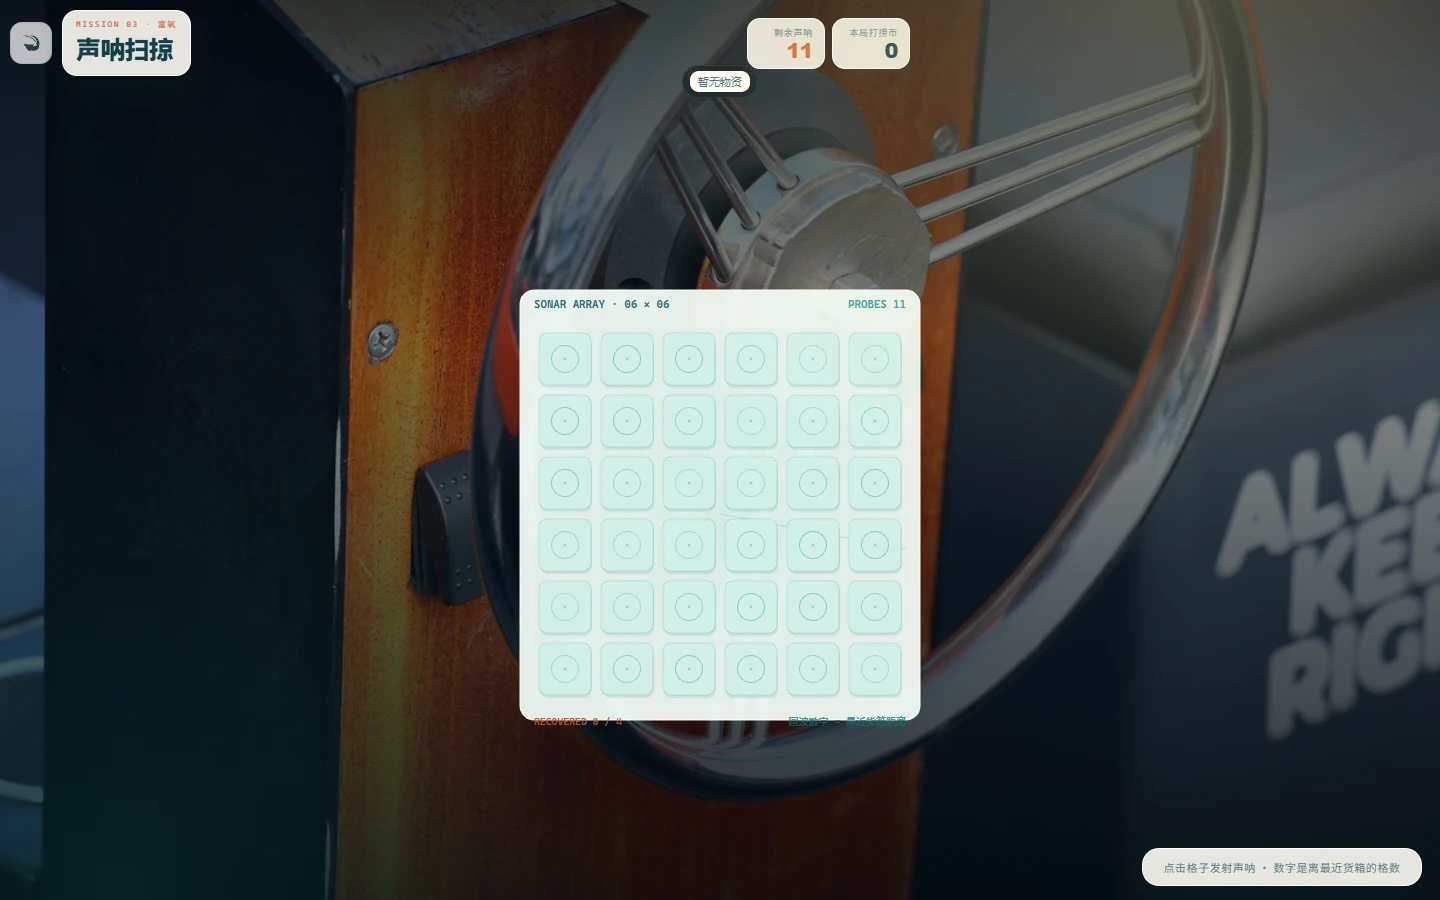
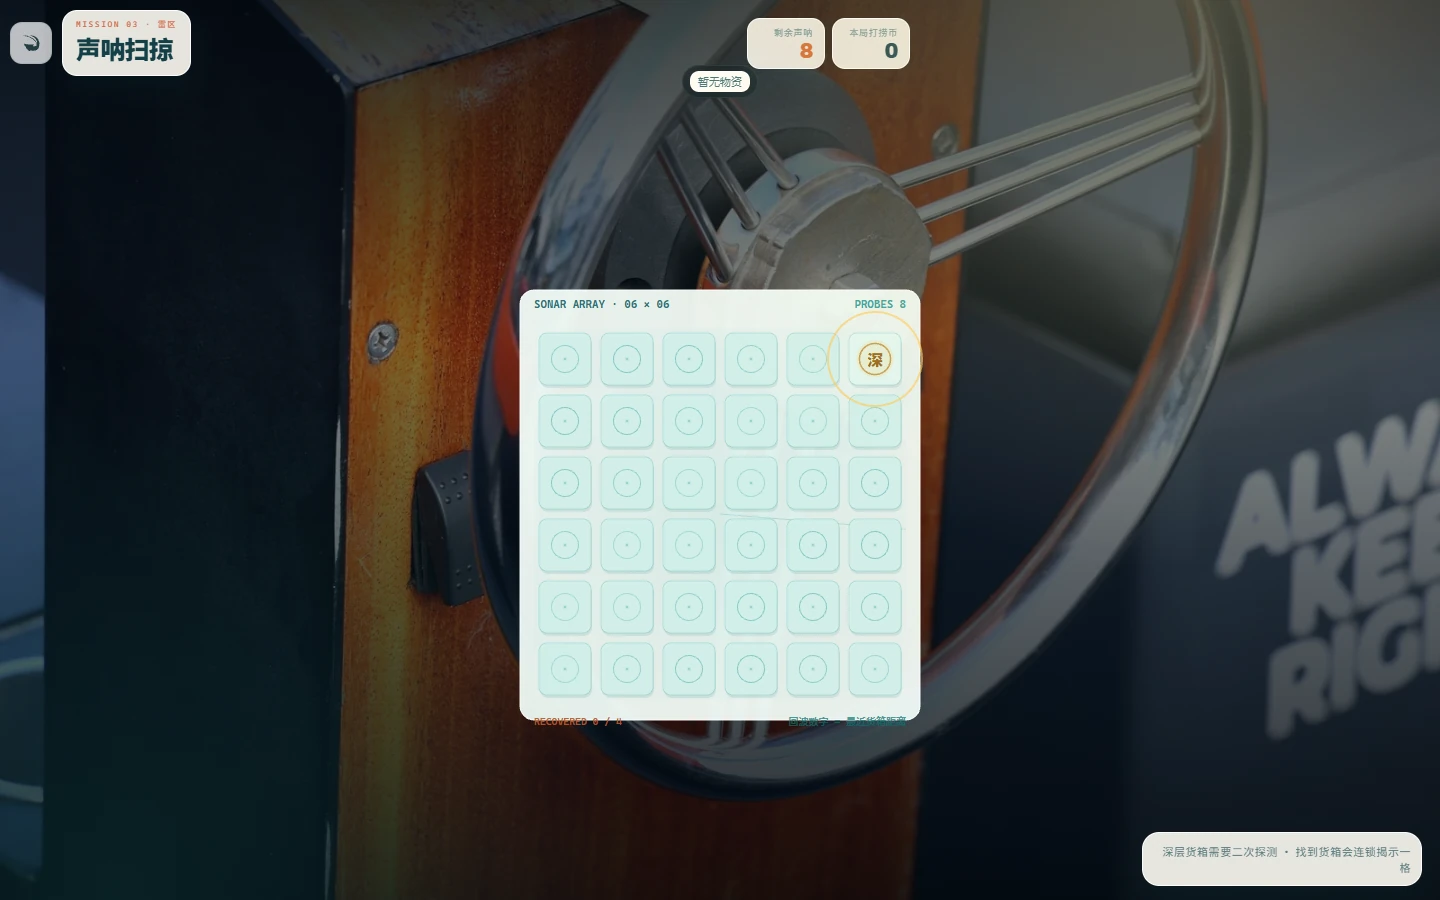
v4.3: 声呐深层货箱与连锁回波

Changed region(s): [[0.7812, 0.9022, 1.0, 0.9956], [0.5938, 0.3111, 0.625, 0.4667], [0.5312, 0.0311, 0.5625, 0.0622]]

diff --git a/js/sonar.js b/js/sonar.js
@@ -138,6 +138,11 @@
         cargoItem.collectibleName = cdef.name;
       }
     }
+    if (chance(0.55) && cargoKeys.length) {
+      var deepKey = cargoKeys[(Math.random() * cargoKeys.length) | 0];
+      this.cargo[deepKey].deep = true;
+      this.cargo[deepKey].hits = 0;
+    }
   };
 
   SonarGame.prototype.layout = function () {
@@ -213,14 +218,21 @@
   SonarGame.prototype.pointerDown = function (x, y) {
     if (this.phase !== 'playing' || this.done || this.ending > 0) return;
     var cell = this.cellAt(x, y);
-    if (!cell || this.revealed[cell.r][cell.c]) return;
-    this.probesLeft -= 1;
-    this.revealed[cell.r][cell.c] = true;
+    if (!cell) return;
     var key = cell.r + ':' + cell.c;
     var item = this.cargo[key];
+    var canDeepRetry = !!(item && item.deep && !item.found && item.hits > 0);
+    if (this.revealed[cell.r][cell.c] && !canDeepRetry) return;
+    this.probesLeft -= 1;
+    this.revealed[cell.r][cell.c] = true;
     var cx = this.boardX + cell.c * this.cell + this.cell / 2;
     var cy = this.boardY + cell.r * this.cell + this.cell / 2;
-    if (item) {
+    if (item && item.deep && !item.found && !item.hits) {
+      item.hits = 1;
+      this.clues[cell.r][cell.c] = 'deep';
+      this.rings.push({ x: cx, y: cy, life: 0.65, maxLife: 0.65, color: '#ffc857', big: true });
+      this.audio.sonarDeep();
+    } else if (item) {
       item.found = true;
       this.found += 1;
       var data = CARGO[item.key];
@@ -247,6 +259,7 @@
       this.spawnBurst(cx, cy, data.color, item.key === 'filter' ? 28 : 16);
       this.audio.sonarFound();
       if (item.key === 'filter') this.flash = 0.35;
+      this.chainReveal(cell.r, cell.c);
     } else {
       var dist = this.nearest(cell.r, cell.c);
       this.clues[cell.r][cell.c] = dist;
@@ -257,6 +270,27 @@
   };
 
   SonarGame.prototype.pointerUp = function () {};
+
+  SonarGame.prototype.chainReveal = function (r, c) {
+    var dirs = [[1, 0], [-1, 0], [0, 1], [0, -1]];
+    var options = [];
+    for (var i = 0; i < dirs.length; i++) {
+      var rr = r + dirs[i][0];
+      var cc = c + dirs[i][1];
+      if (rr < 0 || rr >= this.rows || cc < 0 || cc >= this.cols) continue;
+      if (this.revealed[rr][cc]) continue;
+      if (this.cargo[rr + ':' + cc]) continue;
+      options.push({ r: rr, c: cc });
+    }
+    if (!options.length) return;
+    var pick = options[(Math.random() * options.length) | 0];
+    this.revealed[pick.r][pick.c] = true;
+    this.clues[pick.r][pick.c] = this.nearest(pick.r, pick.c);
+    var x = this.boardX + pick.c * this.cell + this.cell / 2;
+    var y = this.boardY + pick.r * this.cell + this.cell / 2;
+    this.rings.push({ x: x, y: y, life: 0.5, maxLife: 0.5, color: '#18b8b0', big: false });
+    this.popups.push({ x: x, y: y - this.cell * 0.55, text: '连锁回波 +1', color: '#0f8f8a', life: 1.2, maxLife: 1.2 });
+  };
 
   SonarGame.prototype.spawnBurst = function (x, y, color, count) {
     for (var i = 0; i < count; i++) {
@@ -324,6 +358,11 @@
   };
 
   SonarGame.prototype.getHud = function () {
+    var deepPending = false;
+    for (var key in this.cargo) {
+      if (!Object.prototype.hasOwnProperty.call(this.cargo, key)) continue;
+      if (this.cargo[key].deep && !this.cargo[key].found) { deepPending = true; break; }
+    }
     return {
       statLabel: '剩余声呐',
       stat: String(this.probesLeft),
@@ -334,7 +373,9 @@
         chip: this.counts.chip
       },
       hasAction: false,
-      hint: '点击格子发射声呐 · 数字是离最近货箱的格数'
+      hint: deepPending
+        ? '深层货箱需要二次探测 · 找到货箱会连锁揭示一格'
+        : '点击格子发射声呐 · 数字是离最近货箱的格数'
     };
   };
 
@@ -505,6 +546,21 @@
         ctx.drawImage(img, -s * 0.34, -s * 0.34, s * 0.68, s * 0.68);
         ctx.restore();
       }
+    } else if (item && item.deep && item.hits) {
+      ctx.fillStyle = 'rgba(255, 197, 87, 0.18)';
+      ctx.beginPath();
+      ctx.arc(0, 0, s * 0.36, 0, TAU);
+      ctx.fill();
+      ctx.strokeStyle = 'rgba(185, 122, 25, 0.7)';
+      ctx.lineWidth = 1.5;
+      ctx.beginPath();
+      ctx.arc(0, 0, s * 0.3, 0, TAU);
+      ctx.stroke();
+      ctx.fillStyle = 'rgba(150, 94, 17, 0.95)';
+      ctx.font = '800 ' + (s * 0.3) + 'px "Noto Sans SC", "Microsoft YaHei", sans-serif';
+      ctx.textAlign = 'center';
+      ctx.textBaseline = 'middle';
+      ctx.fillText('深', 0, 1);
     } else {
       var tone = clue <= 2 ? '#c45a36' : clue <= 4 ? '#9c6e18' : '#0b7f8a';
       ctx.fillStyle = 'rgba(15, 143, 138, 0.09)';

diff --git a/index.html b/index.html
@@ -133,7 +133,7 @@
       </div>
       <div class="title-footer">
         <span>海岸实景素材 · 本地图片 · 无离线收益</span>
-        <span>v4.2 · SUNNY COAST</span>
+        <span>v4.3 · SUNNY COAST</span>
       </div>
     </section>
 
@@ -218,7 +218,7 @@
         <button class="btn ghost wide" data-action="guide">查看玩法说明</button>
         <button id="reset-save" class="btn danger wide" data-action="reset-save">清空避难所</button>
         <p class="modal-note">清空会删除打捞币、物资和所有扩建，无法撤销。再次点击确认。</p>
-        <p class="version">疯狂水世界 · v4.2 · 本地图片素材 + 程序化特效，无远程依赖</p>
+        <p class="version">疯狂水世界 · v4.3 · 本地图片素材 + 程序化特效，无远程依赖</p>
       </div>
     </section>
 
@@ -291,6 +291,7 @@
   </main>
 </body>
 </html>
+
 
 
 

diff --git a/js/hub.js b/js/hub.js
@@ -107,7 +107,7 @@
     },
     {
       id: 'sonar', name: '声呐扫掠', icon: '声', iconImg: 'assets/real/sonar.webp', kicker: 'MISSION 03',
-      desc: '在锈蚀控制台前发射声呐，用距离回波定位隐藏货箱。每格只能探测一次，声呐次数有限。',
+      desc: '在锈蚀控制台前发射声呐，用距离回波定位隐藏货箱。有些货箱埋在深层，需要二次探测；找到货箱会连锁揭示一格。',
       tags: ['10 次声呐', '探索', '稀有过滤器']
     }
   ]);

diff --git a/js/audio.js b/js/audio.js
@@ -345,6 +345,12 @@
     this.tone(880, 0.4, 'sine', 0.045, 0.14);
   };
 
+  AudioEngine.prototype.sonarDeep = function () {
+    this.tone(520, 0.3, 'sine', 0.055, 0, 280);
+    this.tone(260, 0.4, 'triangle', 0.04, 0.08);
+    this.noiseBurst(0.22, 0.03, 1400, 1.6);
+  };
+
   AudioEngine.prototype.matchLine = function () {
     this.tone(420, 0.18, 'sawtooth', 0.055, 0, 1100);
     this.noiseBurst(0.2, 0.04, 1600, 1.1);

diff --git a/DESIGN.md b/DESIGN.md
@@ -1,6 +1,6 @@
 # 疯狂水世界 · 游戏设计文档
 
-> 版本：4.2 · 类型：海岸打捞 / 小游戏合集 / 轻松经营  
+> 版本：4.3 · 类型：海岸打捞 / 小游戏合集 / 轻松经营  
 > 平台：桌面与移动端浏览器 · 单局 1–3 分钟 · 无离线收益
 
 ---
@@ -188,6 +188,8 @@ HUD 以「末日第 1,281 天」计量时间，每完成一局打捞推进 2 天
 
 - 6×6 海床，4 个隐藏货箱；初始 10 次声呐（核心每 2 级 +1，海况可增减）。
 - 点击未探测格：消耗 1 次声呐；空格显示离最近货箱的曼哈顿距离，货箱则直接回收。
+- **深层货箱**：约 55% 航次有 1 个货箱埋得更深；第一次探测只显示「深」，不回收，需要对同一格再探一次。
+- **连锁回波**：找回一个货箱后，免费揭示一个相邻空格的距离，降低穷举压力。
 - 声呐数字颜色：1–2 格偏红、3–4 格偏黄、更远偏蓝，帮助建立热区。
 - 4 个货箱价值不同：保险箱、燃料桶、芯片箱、金条，均可能直接刷成收藏品；全部找到额外 +90 分。
 - 每次出发约 8% 概率把一个货箱替换为海水过滤器；8 局保底同样适用。
@@ -434,6 +436,7 @@ CREDITS.md                        图片与图标授权
 ---
 
 所有核心数值集中在 `js/hub.js`、`js/arcade.js`、`js/match.js` 顶部，方便直接调整并重新平衡。过滤器出现率分别在 `HookGame.buildField`（12%）和 `MatchGame.finish`（5%）中调整。
+
 
 
 

diff --git a/ROADMAP.md b/ROADMAP.md
@@ -2,7 +2,14 @@
 
 > 每 2 小时一轮。每轮先列计划，再做一项以上有意义的改动，并完成测试与文档更新。
 
-## 当前版本：v4.2
+## 当前版本：v4.3
+
+### v4.3 · 声呐深层回波
+
+- 约 55% 声呐航次有 1 个深层货箱；第一次探测只显示「深」，同一格再探一次才回收。
+- 每找回一个货箱，免费揭示一个相邻空格的距离（连锁回波）。
+- 增加深层货箱的琥珀色格子、二次探测音效与 HUD 提示。
+- 保留 4 货箱全找奖励、过滤器概率、收藏品货箱与每日 / 成就统计。
 
 ### v4.2 · 航海日志成就
 
@@ -118,6 +125,7 @@
 4. 更新版本号、README / DESIGN、必要的预览图和 `CREDITS.md`。
 5. 回复按「计划 → 改动 → 测试 → 下一轮候选」输出。
 6. 保持：**无离线收益、无体力、无远程运行时依赖**。
+
 
 
 

diff --git a/README.md b/README.md
@@ -99,6 +99,8 @@ python -m http.server 4173
 - 4 个货箱藏在 36 格里；点击格子发射声呐，消耗 1 次探测。
 - 空格会显示**离最近货箱的曼哈顿距离**；数字越小越接近。
 - 找到保险箱、燃料桶、芯片箱、金条或收藏品后立刻结算；找到全部 4 个有额外奖励。
+- **深层货箱**：约 55% 的航次有 1 个货箱埋在深层；第一次探测只显示「深」，需要对同一格再探一次才能回收。
+- **连锁回波**：每找回一个货箱，会免费揭示一个相邻空格的距离，帮助继续推理。
 - 每次出发有 **8%** 概率有一个货箱是海水过滤器；8 局保底同样适用。
 - 声呐次数有限，先用回波建立热区，再收网。
 
